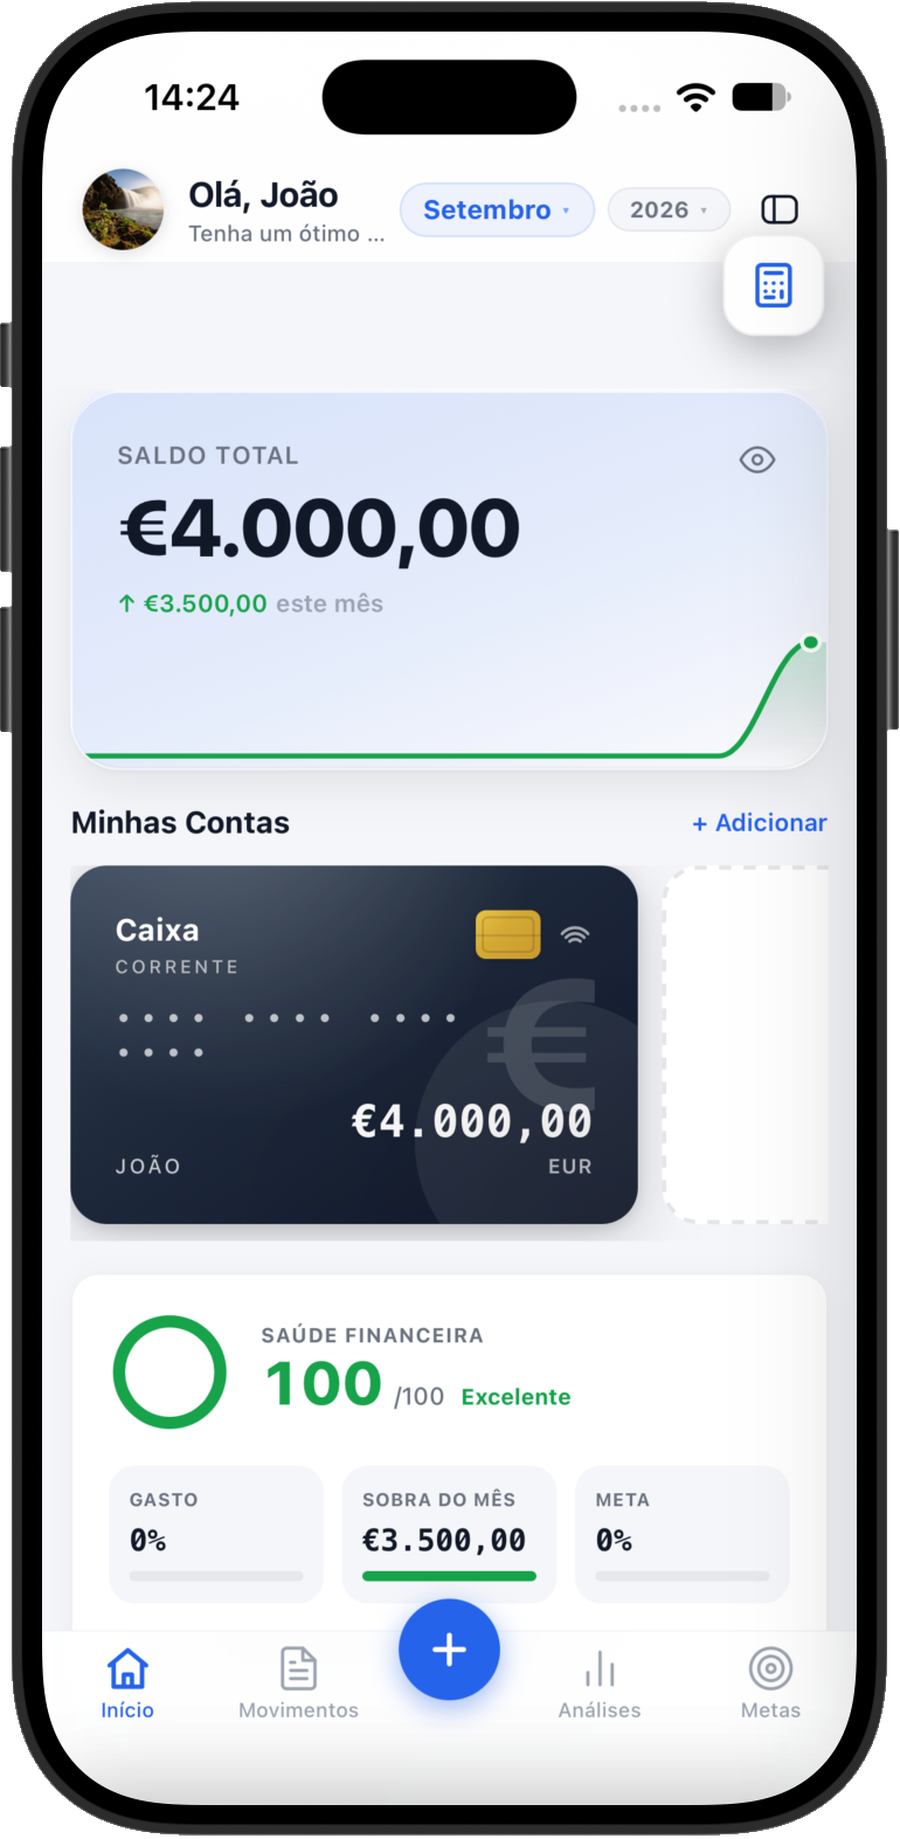
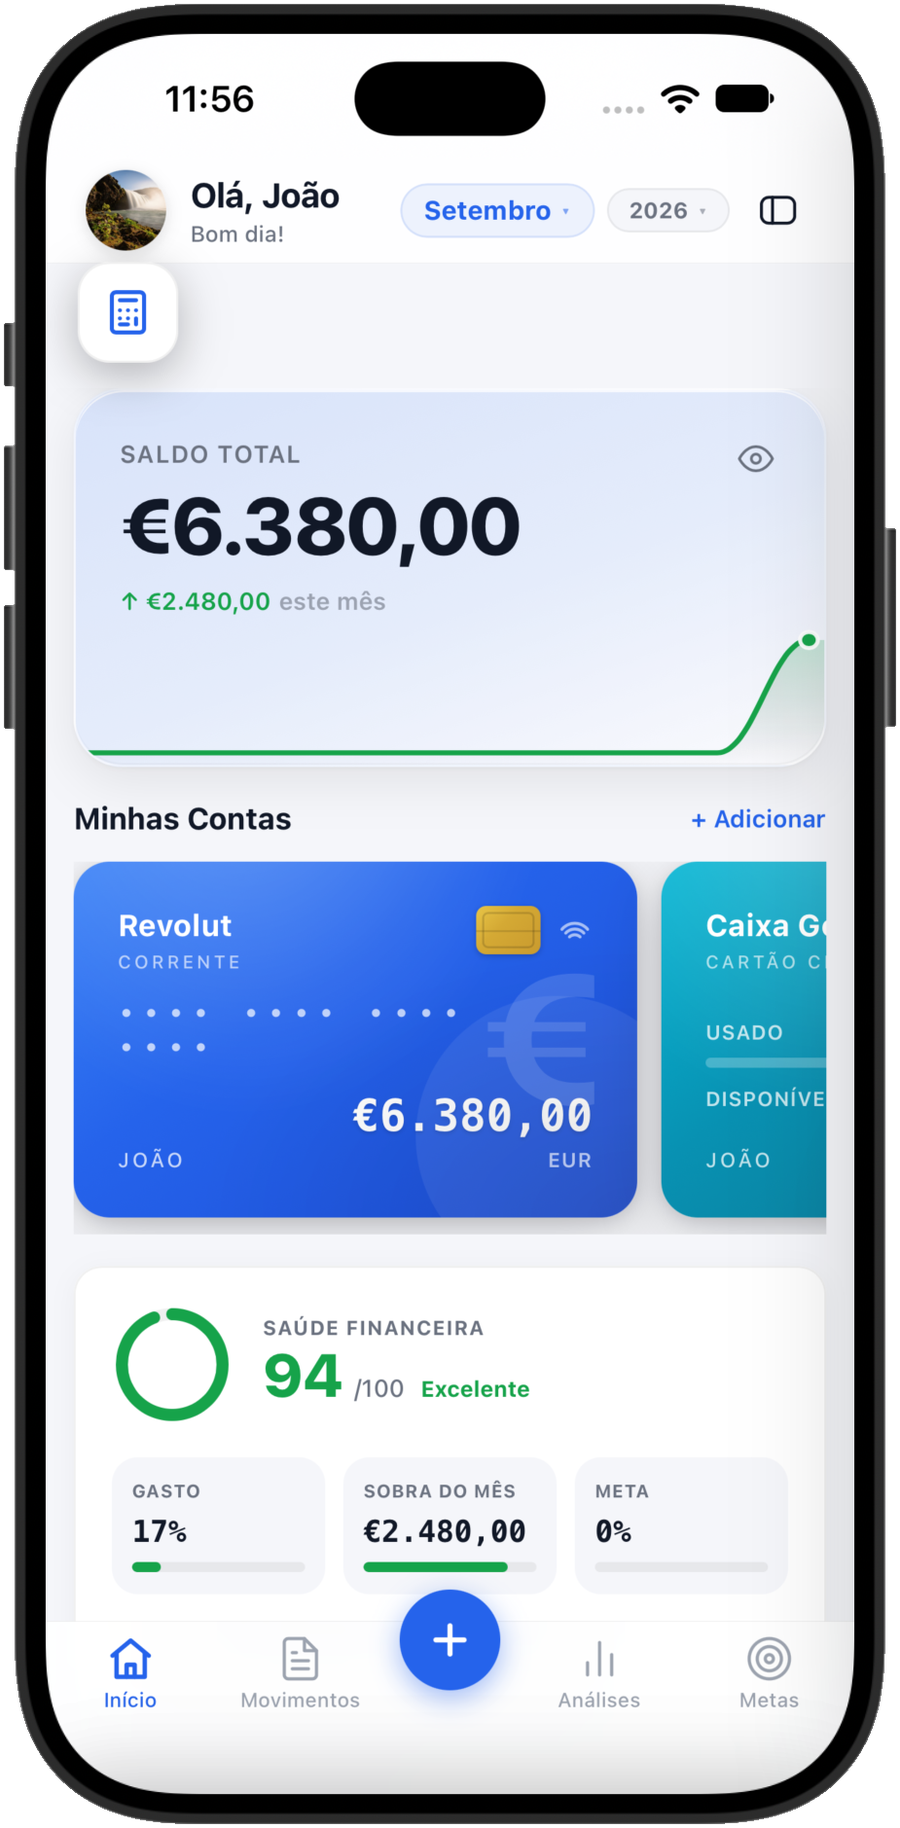
feat(guiafin): herói com o ecrã inicial cheio, em modo claro
A maqueta anterior mostrava €4.000,00 com Gasto 0% e Meta 0% — duas barras
vazias e uma saúde financeira de 100 só porque não havia gastos nenhuns.
Passa para a captura de hoje: €6.380,00, duas contas à vista, saúde 94/100 e
sobra de €2.480,00.

A diferença não é só estética. Ao lado do telemóvel a página promete "junte
todas as suas contas e veja o saldo consolidado num só ecrã", e a imagem
mostrava uma conta só.

Continua a ser dados inventados (o João), como as do carrossel.

diff --git a/src/components/landing/hero.tsx b/src/components/landing/hero.tsx
@@ -78,7 +78,7 @@ export function Hero() {
               alt={t("hero.imageAlt")}
               decoding="async"
               width={900}
-              height={1839}
+              height={1828}
               className="hero-phone relative z-10 animate-float drop-shadow-2xl"
             />
             <div className="hero-feature-column">

diff --git a/scripts/moldura.py b/scripts/moldura.py
@@ -87,6 +87,13 @@ def main():
         print(nome, out.size, os.path.getsize(alvo + ".webp") // 1024, "KB")
 
 
+# Maqueta do heroi: ecra inicial em modo claro, com a app cheia. A caixa foi
+# medida nesta maqueta em concreto (canvas 1322x1932), que nao tem nada escuro
+# fora do aparelho — por isso o recorte sai limpo.
+HEROI_MAQUETA = os.path.expanduser("~/Pictures/Prints/Captura de ecrã 2026-09-30, às 11.56.23.png")
+HEROI_BOX = (212, 24, 1137, 1903)
+
+
 def heroi():
     """Recorta o telemovel da maqueta do ecra inicial em modo claro.
 
@@ -95,8 +102,7 @@ def heroi():
     pagina, um ecra escuro dentro da moldura le-se como um retangulo preto,
     enquanto o claro faz o aparelho parecer ligado.
     """
-    im = Image.open(os.path.expanduser("~/Pictures/Prints/08-inicio-cheio.png")).convert("RGB")
-    im = im.crop((462, 180, 1232, 1753))
+    im = Image.open(HEROI_MAQUETA).convert("RGB").crop(HEROI_BOX)
     a = np.array(im).astype(int)
     sil = preencher(a.sum(2) < 330)
     m = Image.fromarray((sil * 255).astype("uint8"))
